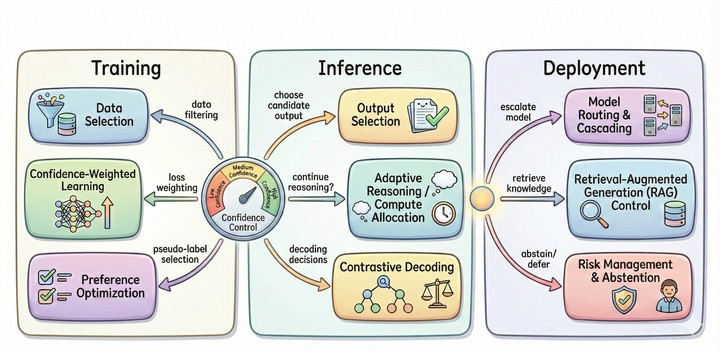
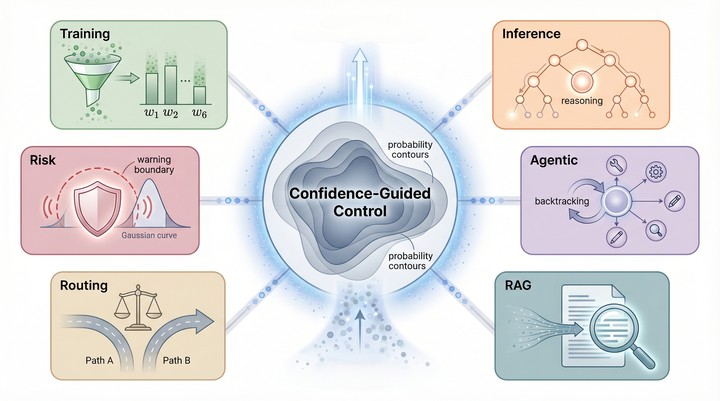
Publication figures: fix aspect, click-to-open-fullsize, detail-page hero
Thumbnail layout
- Fixed 260x~173 (3:2) thumb box with aspect-ratio + object-fit: contain
- Wide paper figures now letterbox onto a subtle light gray bg instead
  of stretching into a thin strip ("狭长" complaint)
- Thumbnail click opens the raw image in a new tab (good for reading
  details / saving), not the publication detail page

Detail page hero image
- _layouts/single.html: when a publication has `image:`, render it as
  a centered hero at the top of the body, also click-to-open-fullsize

Thumbnails
- confidence-as-control.jpg replaced with the new conf_survey.png
  (Confidence-Guided Control hexagonal layout, 720x401, 61 KB)
- New conf_survey.png source was at repo root; covered by existing
  .gitignore (/*.png), now deleted after processing

diff --git a/_sass/layout/_archive.scss b/_sass/layout/_archive.scss
@@ -257,17 +257,23 @@
   margin-bottom: 1.5em;
 
   .pub-thumb {
-    flex: 0 0 240px;
-    max-width: 240px;
+    flex: 0 0 260px;
+    max-width: 260px;
 
-    a, img {
+    a {
       display: block;
       width: 100%;
-    }
-    img {
+      aspect-ratio: 3 / 2;        /* consistent boxy frame for all papers */
+      background: #f5f5f5;        /* subtle letterbox bg for wide figures */
       border: 1px solid rgba(0, 0, 0, 0.08);
       border-radius: 4px;
-      height: auto;
+      overflow: hidden;
+    }
+    img {
+      display: block;
+      width: 100%;
+      height: 100%;
+      object-fit: contain;        /* show whole figure, no cropping */
     }
   }
 
@@ -287,5 +293,22 @@
       flex: 1 1 auto;
       max-width: 100%;
     }
+  }
+}
+
+/* Full-size figure at top of publication detail page */
+.pub-detail-figure {
+  margin: 0 0 1.5em 0;
+  text-align: center;
+
+  a {
+    display: inline-block;
+    max-width: 100%;
+  }
+  img {
+    max-width: 100%;
+    height: auto;
+    border: 1px solid rgba(0, 0, 0, 0.08);
+    border-radius: 4px;
   }
 }

diff --git a/_layouts/single.html b/_layouts/single.html
@@ -51,6 +51,13 @@ layout: default
       {% endunless %}
 
       <section class="page__content" itemprop="text">
+        {% if page.collection == 'publications' and page.image %}
+          <p class="pub-detail-figure">
+            <a href="{{ page.image | prepend: base_path }}" target="_blank" rel="noopener" title="Open figure">
+              <img src="{{ page.image | prepend: base_path }}" alt="" />
+            </a>
+          </p>
+        {% endif %}
         {{ content }}
 
         {% if page.citation and page.paperurl and page.slidesurl and page.bibtexurl %}

diff --git a/_includes/archive-single.html b/_includes/archive-single.html
@@ -28,7 +28,7 @@
 
     {% if post.collection == 'publications' and post.image %}
       <div class="pub-thumb">
-        <a href="{{ base_path }}{{ post.url }}"><img src="{{ post.image | prepend: base_path }}" alt=""></a>
+        <a href="{{ post.image | prepend: base_path }}" target="_blank" rel="noopener" title="Open figure"><img src="{{ post.image | prepend: base_path }}" alt=""></a>
       </div>
     {% endif %}
 
